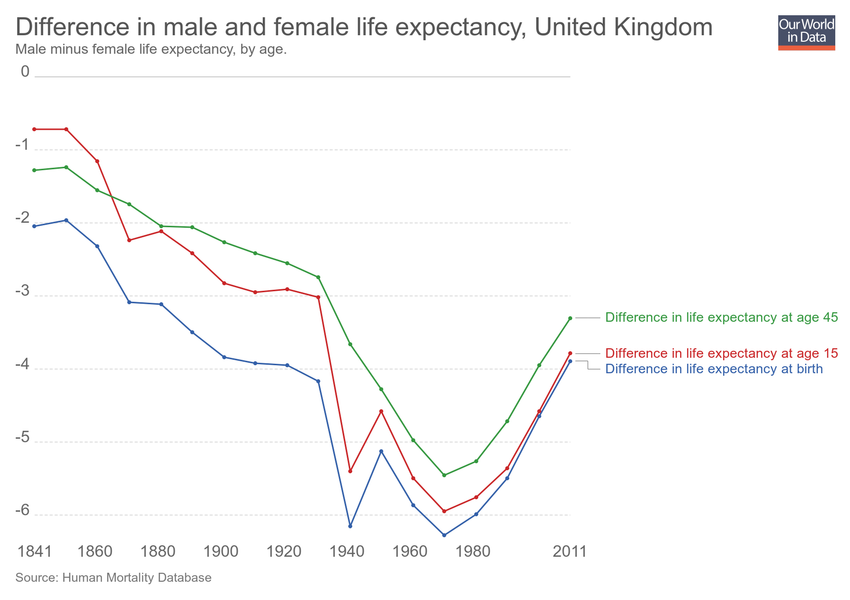
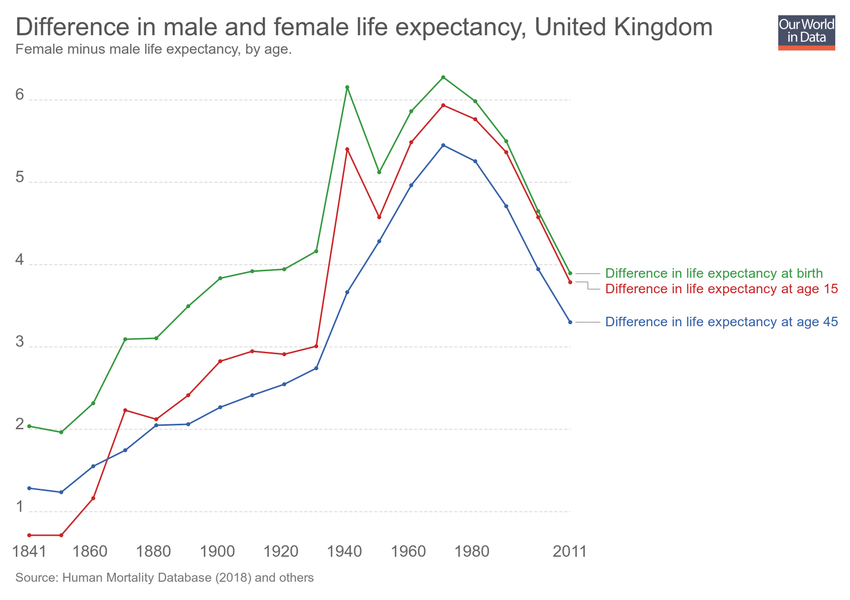
Updating chart difference-in-male-and-female-life-expectancy

diff --git a/grapher/difference-in-male-and-female-life-expectancy.html b/grapher/difference-in-male-and-female-life-expectancy.html
@@ -1,4 +1,4 @@
-<!doctype html><html><head><meta name="viewport" content="width=device-width, initial-scale=1" /><title>Difference in male and female life expectancy - Our World in Data</title><meta name="description" content="Male minus female life expectancy, by age." /><link rel="canonical" href="https://ourworldindata.org/grapher/difference-in-male-and-female-life-expectancy" /><meta property="fb:app_id" content="1149943818390250" /><meta property="og:url" content="https://ourworldindata.org/grapher/difference-in-male-and-female-life-expectancy" /><meta property="og:title" content="Difference in male and female life expectancy" /><meta property="og:description" content="Male minus female life expectancy, by age." /><meta property="og:image" content="https://ourworldindata.org/grapher/exports/difference-in-male-and-female-life-expectancy.png?v=9" /><meta property="og:image:width" content="850" /><meta property="og:image:height" content="600" /><meta property="og:site_name" content="Our World in Data" /><meta name="twitter:card" content="summary_large_image" /><meta name="twitter:site" content="@OurWorldInData" /><meta name="twitter:creator" content="@OurWorldInData" /><meta name="twitter:title" content="Difference in male and female life expectancy" /><meta name="twitter:description" content="Male minus female life expectancy, by age." /><meta name="twitter:image" content="https://ourworldindata.org/grapher/exports/difference-in-male-and-female-life-expectancy.png?v=9" /><style>
+<!doctype html><html><head><meta name="viewport" content="width=device-width, initial-scale=1" /><title>Difference in male and female life expectancy - Our World in Data</title><meta name="description" content="Female minus male life expectancy, by age." /><link rel="canonical" href="https://ourworldindata.org/grapher/difference-in-male-and-female-life-expectancy" /><meta property="fb:app_id" content="1149943818390250" /><meta property="og:url" content="https://ourworldindata.org/grapher/difference-in-male-and-female-life-expectancy" /><meta property="og:title" content="Difference in male and female life expectancy" /><meta property="og:description" content="Female minus male life expectancy, by age." /><meta property="og:image" content="https://ourworldindata.org/grapher/exports/difference-in-male-and-female-life-expectancy.png?v=10" /><meta property="og:image:width" content="850" /><meta property="og:image:height" content="600" /><meta property="og:site_name" content="Our World in Data" /><meta name="twitter:card" content="summary_large_image" /><meta name="twitter:site" content="@OurWorldInData" /><meta name="twitter:creator" content="@OurWorldInData" /><meta name="twitter:title" content="Difference in male and female life expectancy" /><meta name="twitter:description" content="Female minus male life expectancy, by age." /><meta name="twitter:image" content="https://ourworldindata.org/grapher/exports/difference-in-male-and-female-life-expectancy.png?v=10" /><style>
         html, body {
             height: 100%;
             margin: 0;
@@ -20,8 +20,8 @@
         }
     </style><noscript><style>
                     figure { display: none !important; }
-                </style></noscript><link rel="stylesheet" href="https://ourworldindata.org/grapher/assets/commons.bundle.0cade97703a5a10acaac.css" /><link rel="preload" href="/grapher/data/variables/97757+97755+97756.json?v=9" as="fetch" crossorigin /></head><body class="singleChart"><figure data-grapher-src="/grapher/difference-in-male-and-female-life-expectancy"></figure><noscript id="fallback"><img src="/grapher/exports/difference-in-male-and-female-life-expectancy.svg" /><p>Interactive visualization requires JavaScript</p></noscript><script src="https://cdn.polyfill.io/v2/polyfill.min.js?features=es6,fetch"></script><script src="https://ourworldindata.org/grapher/assets/commons.bundle.0cade97703a5a10acaac.js"></script><script src="https://ourworldindata.org/grapher/assets/charts.bundle.0cade97703a5a10acaac.js"></script><script>
-        var jsonConfig = {"id":2935,"map":{"projection":"World","colorSchemeLabels":[],"colorSchemeValues":[],"customNumericColors":[],"customCategoryColors":{},"customCategoryLabels":{},"customHiddenCategories":{}},"tab":"chart","slug":"difference-in-male-and-female-life-expectancy","type":"LineChart","title":"Difference in male and female life expectancy","xAxis":{"scaleType":"linear"},"yAxis":{"max":0,"scaleType":"linear"},"version":9,"subtitle":"Male minus female life expectancy, by age.","hasMapTab":false,"stackMode":"absolute","dimensions":[{"display":{"name":"Difference in life expectancy at age 45"},"property":"y","variableId":97757},{"display":{"name":"Difference in life expectancy at birth","shortUnit":""},"property":"y","variableId":97755},{"display":{"name":"Difference in life expectancy at age 15"},"property":"y","variableId":97756}],"hasChartTab":true,"isPublished":true,"selectedData":[{"index":1,"entityId":1},{"index":2,"entityId":1},{"index":0,"entityId":1}],"addCountryMode":"change-country"};
+                </style></noscript><link rel="stylesheet" href="https://ourworldindata.org/grapher/assets/commons.bundle.0cade97703a5a10acaac.css" /><link rel="preload" href="/grapher/data/variables/97767+97768+97769.json?v=10" as="fetch" crossorigin /></head><body class="singleChart"><figure data-grapher-src="/grapher/difference-in-male-and-female-life-expectancy"></figure><noscript id="fallback"><img src="/grapher/exports/difference-in-male-and-female-life-expectancy.svg" /><p>Interactive visualization requires JavaScript</p></noscript><script src="https://cdn.polyfill.io/v2/polyfill.min.js?features=es6,fetch"></script><script src="https://ourworldindata.org/grapher/assets/commons.bundle.0cade97703a5a10acaac.js"></script><script src="https://ourworldindata.org/grapher/assets/charts.bundle.0cade97703a5a10acaac.js"></script><script>
+        var jsonConfig = {"id":2935,"map":{"projection":"World","colorSchemeLabels":[],"colorSchemeValues":[],"customNumericColors":[],"customCategoryColors":{},"customCategoryLabels":{},"customHiddenCategories":{}},"tab":"chart","slug":"difference-in-male-and-female-life-expectancy","type":"LineChart","title":"Difference in male and female life expectancy","xAxis":{"scaleType":"linear"},"yAxis":{"max":0,"scaleType":"linear"},"version":10,"subtitle":"Female minus male life expectancy, by age.","hasMapTab":false,"stackMode":"absolute","dimensions":[{"display":{"name":"Difference in life expectancy at birth"},"property":"y","variableId":97767},{"display":{"name":"Difference in life expectancy at age 15"},"property":"y","variableId":97768},{"display":{"name":"Difference in life expectancy at age 45"},"property":"y","variableId":97769}],"hasChartTab":true,"isPublished":true,"selectedData":[{"index":0,"entityId":1},{"index":1,"entityId":1},{"index":2,"entityId":1}],"addCountryMode":"change-country"};
         var figure = document.getElementsByTagName("figure")[0];
         try {
             window.App = {};
